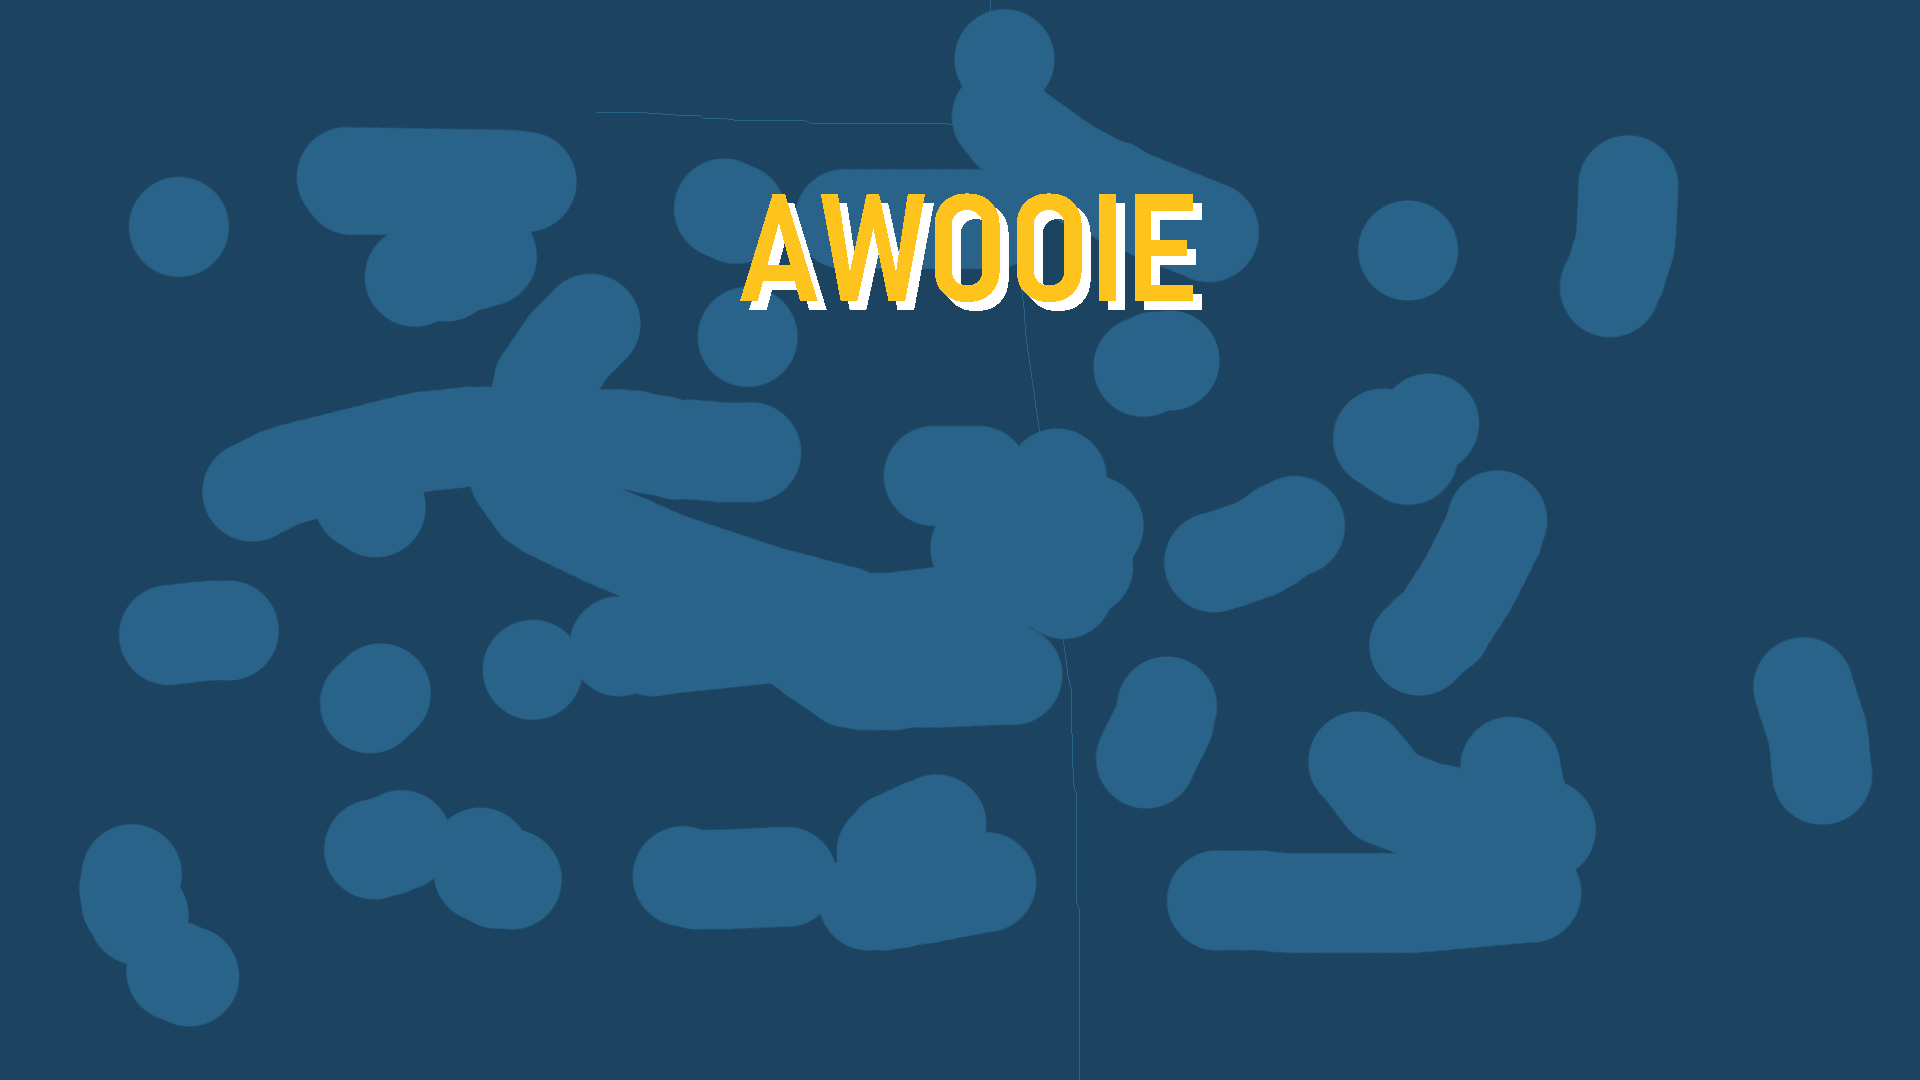
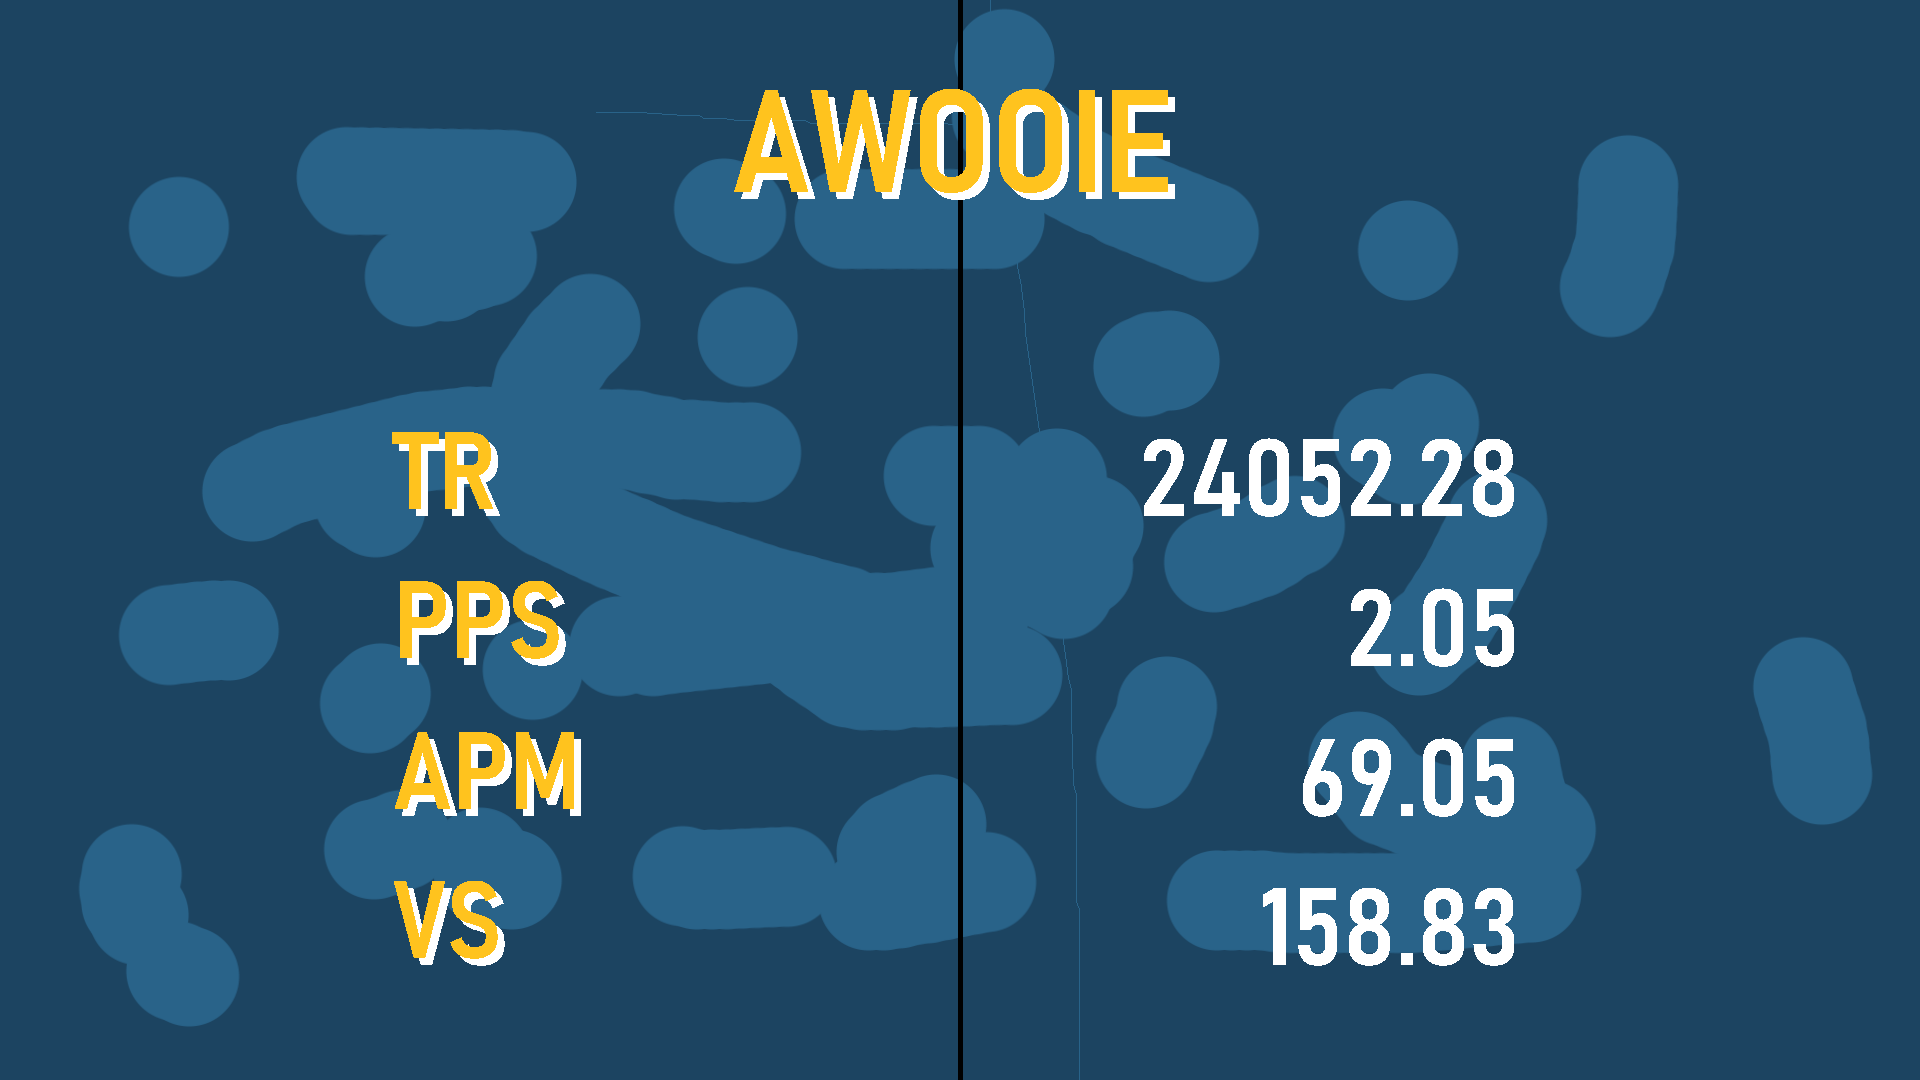
Data now renders correctly

diff --git a/player_card.py b/player_card.py
@@ -1,0 +1,53 @@
+from PIL import Image, ImageFont, ImageDraw
+
+
+def render(data: dict):
+    img = Image.open("background.png")
+    draw = ImageDraw.Draw(img)
+
+    # Set user and data fonts
+    user_font = ImageFont.truetype(font="bahnschrift.ttf", size=144)
+    user_font.set_variation_by_name('Bold SemiCondensed')
+    data_font = ImageFont.truetype(font="bahnschrift.ttf", size=108)
+    data_font.set_variation_by_name('Bold SemiCondensed')
+
+    # Set standard text positions
+    center = 1920 / 2  # get center position to draw name text
+    top = 85
+    left = 400
+    right = 1920 - left
+    data_top = 430
+
+    # Draw username
+    text = data.get('username')
+    text = text.upper()
+    draw.text((center, top), text, (255, 255, 255), font=user_font, anchor="ma")
+    draw.text((center - 7, top - 7), text, (255, 195, 30), font=user_font, anchor="ma")
+
+    # Draw data
+    text: str = str(data.get('tr'))
+    draw.text((left, data_top), 'TR', (255, 255, 255), font=data_font, anchor="la")
+    draw.text((left - 7, data_top - 7), 'TR', (255, 195, 30), font=data_font, anchor="la")
+    draw.text((right, data_top), text, (255, 255, 255), font=data_font, anchor="ra")
+    data_top += 150
+
+    text: str = str(data.get('pps'))
+    draw.text((left, data_top), 'PPS', (255, 255, 255), font=data_font, anchor="la")
+    draw.text((left - 7, data_top - 7), 'PPS', (255, 195, 30), font=data_font, anchor="la")
+    draw.text((right, data_top), text, (255, 255, 255), font=data_font, anchor="ra")
+    data_top += 150
+
+    text: str = str(data.get('apm'))
+    draw.text((left, data_top), 'APM', (255, 255, 255), font=data_font, anchor="la")
+    draw.text((left - 7, data_top - 7), 'APM', (255, 195, 30), font=data_font, anchor="la")
+    draw.text((right, data_top), text, (255, 255, 255), font=data_font, anchor="ra")
+    data_top += 150
+
+    text: str = str(data.get('vs'))
+    draw.text((left, data_top), 'VS', (255, 255, 255), font=data_font, anchor="la")
+    draw.text((left - 7, data_top - 7), 'VS', (255, 195, 30), font=data_font, anchor="la")
+    draw.text((right, data_top), text, (255, 255, 255), font=data_font, anchor="ra")
+    data_top += 150
+
+
+    img.save("text.png")

diff --git a/main.py b/main.py
@@ -41,7 +41,7 @@ def get_card_data(json: dict):
     player_card_data: dict = {'username': username, 'country': country, 'rank': rank,
                               'tr': tr, 'pps': pps, 'apm': apm, 'vs': vs}
 
-    print(player_card_data)
+    return player_card_data
 
 
 def main():
@@ -54,7 +54,8 @@ def main():
         main()
         return
 
-    get_card_data(p_json)
+    data = get_card_data(p_json)
+    player_card.render(data)
 
 
 if __name__ == '__main__':
